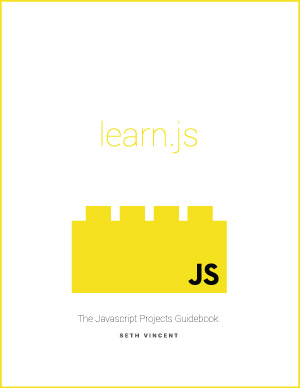
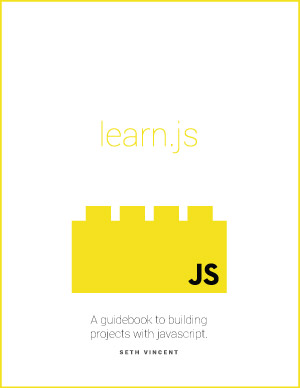
new learnjs cover

Changed region(s): [[0.27, 0.8041, 0.72, 0.9278]]

diff --git a/index.html b/index.html
@@ -19,7 +19,7 @@ layout: static
     <p>An experimental transmedia fiction project.</p>
   </a>
   <a class="featured-project" href="{{ site.baseurl  }}/learnjs" target="blank">
-    <h3>learn.js: The Javascript Projects Guidebook.</h3>
+    <h3>learn.js: a guidebook to building projects with javascript.</h3>
     <p>Learn javascript by example.</p>
   </a>
 </div>

diff --git a/learnjs/index.md b/learnjs/index.md
@@ -3,8 +3,8 @@ layout: static
 ---
 <div style="float:right;margin-left:20px;"><a href="https://leanpub.com/learnjs"><img src="{{ site.baseurl }}/img/learnjs.jpg" /></a></div>
 
-## learn.js
-### The Javascript Projects Guidebook
+## Learn.js
+### A guidebook to building projects with javascript.
 
 This book should feel like a collection of LEGO guides, like walkthroughs for levels of a video game that gradually increase in difficulty, building on what you learned in previous levels.
 
